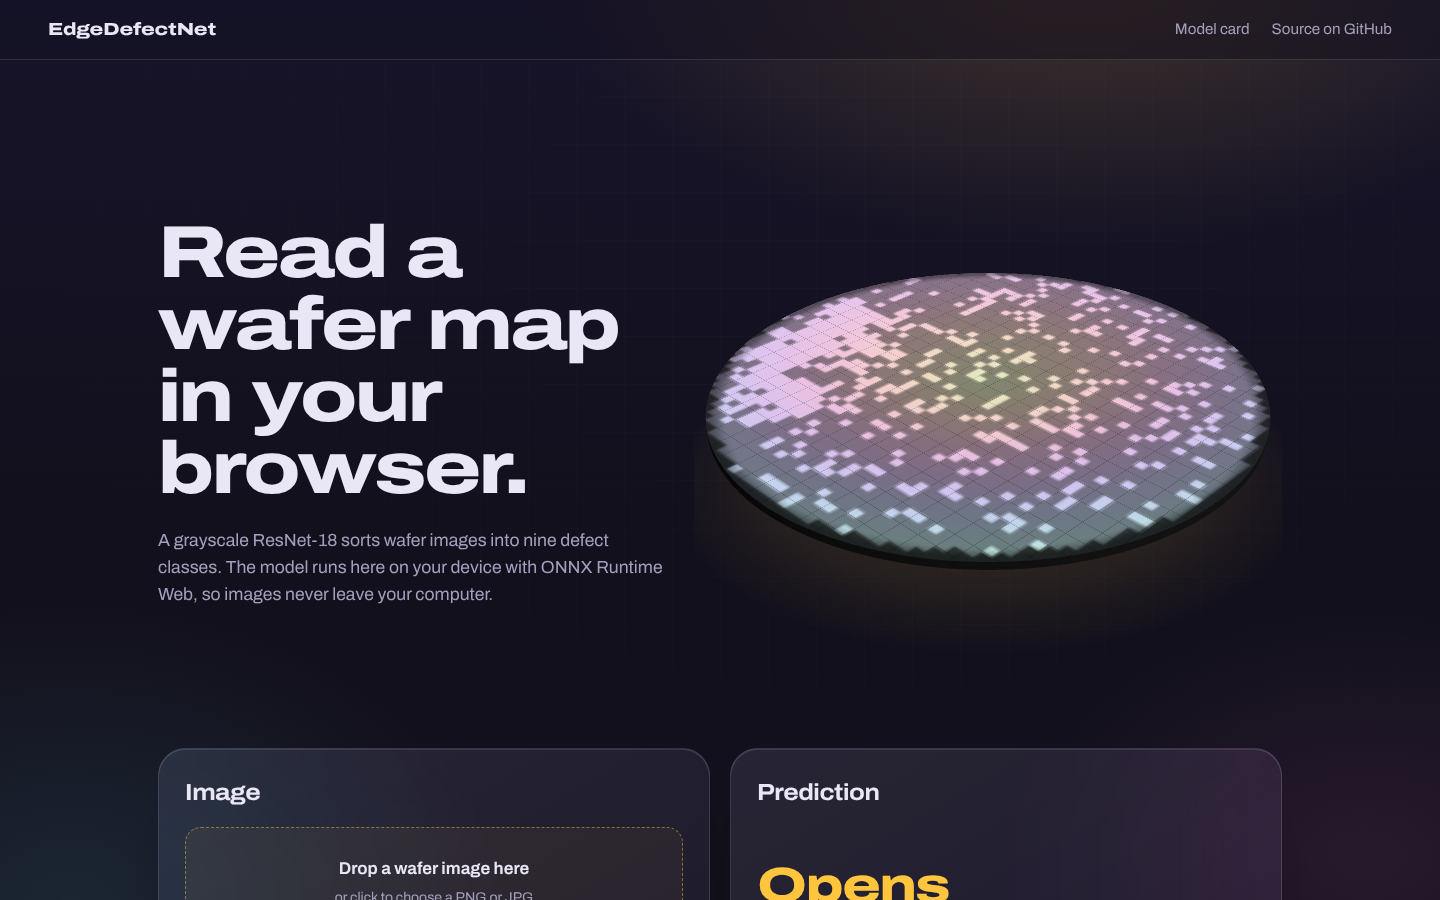
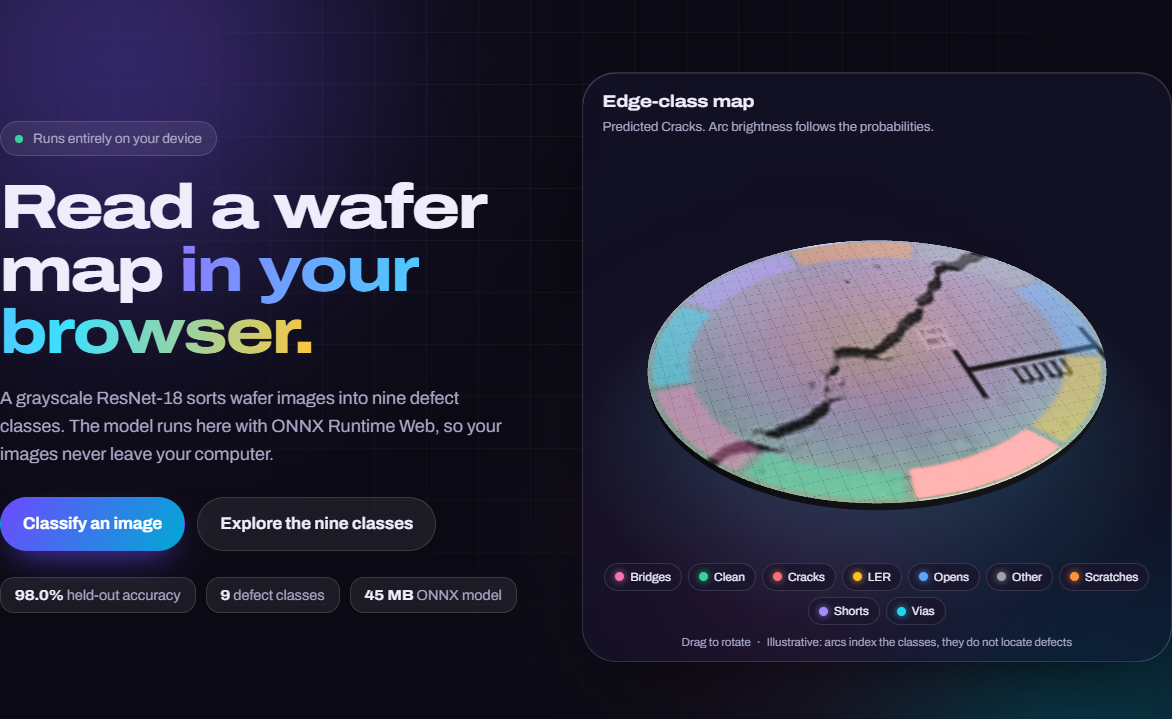
docs: refresh screenshots, README and changelog; drop redundant requirements-dev.txt
Replace the stale web screenshots with ones of the redesigned app, add one of the
Gradio demo, describe the new UI, the pinned/SRI third-party scripts and the
confined-path options in the README, and record everything in the changelog.
requirements-dev.txt duplicated the dev extra in pyproject.toml and was not
referenced anywhere.

diff --git a/README.md b/README.md
@@ -12,7 +12,7 @@ an ONNX model you can run with three small dependencies, and a web app that runs
 Documentation: [Model card](MODEL_CARD.md) | [Changelog](CHANGELOG.md) | [Contributing](CONTRIBUTING.md) |
 [Security policy](SECURITY.md) | [v1 audit](reports/v1_audit.md)
 
-![Web app: the selected wafer map rendered on a 3D wafer](docs/web_hero.png)
+![Web app: the selected wafer map on an interactive 3D wafer with one edge arc per class](docs/web_hero.png)
 
 ## Results (held-out test split)
 
@@ -65,10 +65,16 @@ no leakage at all.
 
 ## Web app
 
-`web/` is a static site: pick a held-out example or drop an image, and the ONNX model runs locally through
-ONNX Runtime Web (WebAssembly). The selected wafer map is rendered onto a 3D wafer (three.js) with a thin-film
-iridescence shader and an amber "exposure" scan when a prediction completes. The model card section reads the
-real test metrics and draws the confusion matrix.
+`web/` is a static site with a glassmorphism UI (dark and light themes, responsive, keyboard accessible). Drop an image
+(anywhere on the page), paste one, or pick a held-out example, and the ONNX model runs locally through ONNX Runtime
+Web (WebAssembly). Results show an animated confidence gauge, ranked probability bars and an explainer for the
+predicted class; the model card section reads the real test metrics and draws the confusion matrix.
+
+The selected image is mapped onto an interactive 3D wafer (three.js: drag or use the arrow keys to rotate). Its rim
+carries nine coloured arcs, one per class, whose brightness follows the model's probabilities. The arcs are an index
+of the classes, not a defect locator. three.js loads lazily, respects `prefers-reduced-motion`, and falls back to a 2D
+canvas when WebGL is unavailable. three.js and ONNX Runtime Web are loaded from pinned CDN versions with
+Subresource Integrity hashes; the model, images and metrics are self-hosted.
 
 | Prediction | Model card |
 |---|---|
@@ -133,6 +139,11 @@ docker run --rm -p 7860:7860 edgedefectnet              # http://localhost:7860
 docker run --rm -v "$PWD:/data:ro" edgedefectnet python -m edgedefectnet.predict /data/my_wafer.png
 ```
 
+The demo (`app.py`, styled by `app.css`) shows the same gauge, bars and class explainers
+(Gradio 6); it classifies in-memory images only, so uploads never reach the file system.
+
+![Gradio demo](docs/gradio_demo.png)
+
 The image is based on `python:3.12-slim`, runs as an unprivileged user, includes a health check, and has no
 authentication: put it behind a reverse proxy before exposing it beyond localhost. `HOST` and `PORT` select the
 bind address.
@@ -171,15 +182,15 @@ optimizer and scheduler state every epoch.
 ## Project layout
 
 ```text
-edgedefectnet/        package: classes, preprocessing, splits, model, data, train, evaluate, export, predict
+edgedefectnet/        package: classes (names + descriptions), preprocessing, splits, model, data, train, evaluate, export, predict
 models/               edgedefectnet.onnx (single file, dynamic batch, opset 17)
-web/                  browser app (HTML/CSS/JS, self-hosted Archivo font)
+web/                  browser app (index.html, style.css, app.js, inference.js, wafer3d.js, self-hosted Archivo font)
 examples/             one held-out test image per class
 data/                 manifest.csv and dataset documentation
 reports/              test/validation metrics, confusion matrices, training history, v1 audit
 scripts/              build_dataset.py, build_site.py, plot_history.py
 tests/                classes and split leakage, inference, ONNX export parity, browser parity
-app.py                Gradio demo
+app.py, app.css       Gradio demo and its stylesheet
 pyproject.toml        packaging, pytest, coverage and mypy configuration
 Dockerfile            container for the Gradio demo and CLI
 MODEL_CARD.md         intended use, data, metrics, limitations

diff --git a/CHANGELOG.md b/CHANGELOG.md
@@ -6,6 +6,17 @@ and the project uses [Semantic Versioning](https://semver.org/).
 ## [Unreleased]
 
 ### Added
+- Redesigned browser app: glassmorphism UI with animated background, dark/light themes, drag-and-drop, paste and
+  page-wide drop upload, animated radial confidence gauge and ranked bars, a low-confidence warning, per-class
+  explainer cards with schematic wafer-map glyphs, and an interactive three.js wafer whose rim carries one arc per
+  class (lazy-loaded, reduced-motion aware, 2D fallback). three.js and ONNX Runtime Web are pinned with SRI hashes.
+- Redesigned Gradio demo in the same visual language (confidence gauge, bars, class explainers).
+- `CLASS_INFO` (colour, summary and dataset notes per class) is the single source for both front ends; the site
+  build emits it as `classes.json`.
+- `resolve_image_path` / `allowed_root`: image paths can be confined to a directory (`..` and symlinks resolved
+  before checking); `Predictor(allowed_root=...)`, `edgedefectnet-predict --root`, and `Predictor.predict_image`
+  for in-memory images (no file-system access).
+- Browser tests for upload, error handling and the theme toggle, and a check that the page raises no JS errors.
 - `pyproject.toml` packaging (`pip install .`, `edgedefectnet-predict` console script, extras `demo`, `train`, `dev`).
 - Input validation and clear errors for unreadable, empty, oversized or tiny images and for missing, corrupt or
   Git-LFS-pointer model files (`InvalidImageError`, `ModelError`).
@@ -17,9 +28,14 @@ and the project uses [Semantic Versioning](https://semver.org/).
   package build and install smoke test, Docker build.
 
 ### Changed
+- The Gradio demo now requires Gradio 6 (`gradio>=6,<7`) and classifies only in-memory images.
 - The GitHub Pages workflow now checks that Pages is enabled and degrades to a build-only run with a clear notice
   instead of failing with a 404; it also builds on pull requests without deploying.
 - The CLI continues past unreadable images and exits non-zero (1: bad image, 2: model could not be loaded).
+
+### Security
+- Resolved the two CodeQL `py/path-injection` alerts in `edgedefectnet/preprocessing.py`: the web demo no longer
+  routes request data into path handling, and path inputs can be confined to an allowed root.
 
 ## [2.0.0]
 
